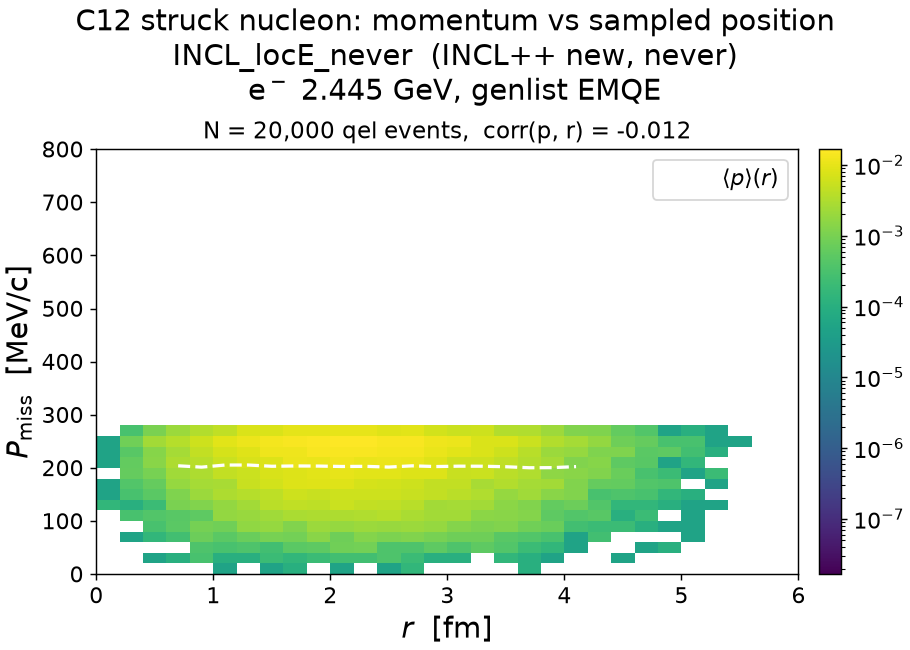
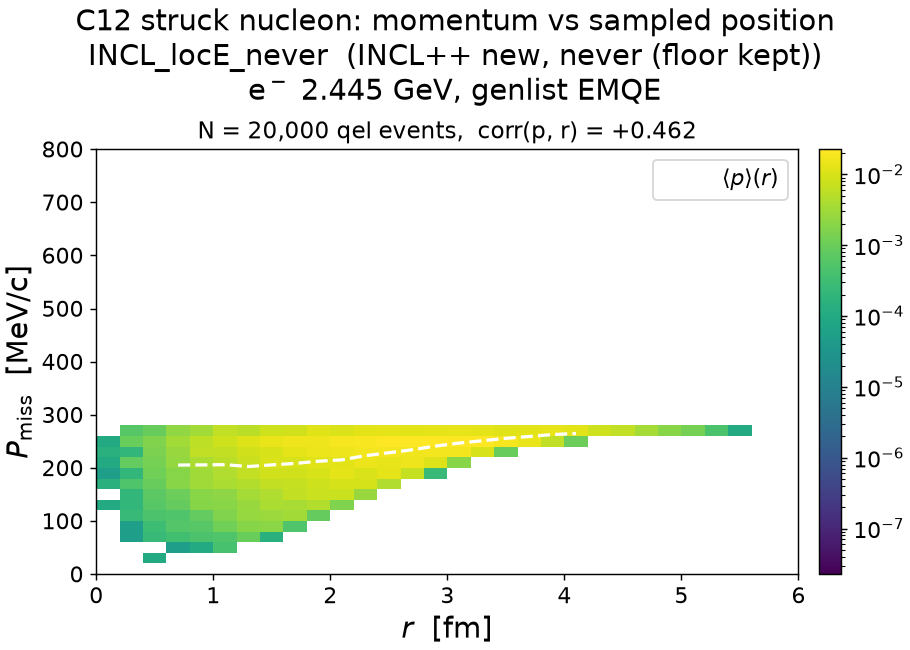
docs+results: never keeps the resampling floor -- plan semantics and (r, p) figure updated
Fork commit cbffacc10 (feature/incl-vertex-local-energy): the p_min(r)
acceptance in ResamplingHitNucleon applies in every local-energy mode; with
"never" only the local-energy transform is off. Plan table/expected numbers
updated (never: ball with floor, <p> 226, corr +0.45, E_m mean 17.4); the
struck_pr_c12_all_t05_locE figure's never panel regenerated from a 20k run
under the new code.

diff --git a/docs/incl-vertex-local-energy-option-plan.md b/docs/incl-vertex-local-energy-option-plan.md
@@ -9,9 +9,10 @@ collision). Validation (20k e⁻ C12 EMQE events per setting, existing spline):
 record nucleon = interaction nucleon (invariant mass 892.6 MeV), stage-2 and
 stage-3 E_m identical, `|p_p′ − q| = p_rec` to 0.004 MeV/c, record `Q2 == Q2s`,
 `E_m = V₀ − T` to 0.01 MeV; corr(p, r) = −0.67 (on, ⟨p⟩ 147 MeV/c, E_m mean
-31.5) / 0.00 (`never`, ⟨p⟩ 203, E_m mean 21.9). Not done: new splines (E7) and
-the tune overlay (E8) — the `never` runs used a scratch `GXMLPATH` override of
-`NucleusGenINCL.xml`.
+31.5) / +0.45 (`never`, floor kept, ⟨p⟩ 226, E_m mean 17.4; fork commit of
+2026-09-04 — the first version had dropped the floor for `never`: ⟨p⟩ 203,
+corr 0.00). Not done: new splines (E7) and the tune overlay (E8) — the `never`
+runs used a scratch `GXMLPATH` override of `NucleusGenINCL.xml`.
 Companion to [`incl-local-frame-binding-plan.md`](incl-local-frame-binding-plan.md)
 (the E = E_red − V₀ convention) and grounded in
 [`incl-ground-state-review.md`](incl-ground-state-review.md).
@@ -48,12 +49,13 @@ generated and compared without code edits.
 |---|---|---|
 | `always` | on | every NN collision |
 | `first-collision` (default) | on — the vertex *is* the first collision | none (the QE avatar consumed the flag; kept as today) |
-| `never` | off: struck nucleon = INCL's own `(p_ball, E_ball − V₀)`, resampling accepts any ball momentum (no `T > T_loc(r)` floor) | none |
+| `never` | off: struck nucleon = INCL's own `(p_ball, E_ball − V₀)`; the resampling still applies the ground-state floor `T > T_loc(r)` (changed 2026-09-04: the floor is a ground-state constraint, not the energy correction) | none |
 
 `local-energy-pi` keeps its INCL meaning (πN collisions, Δ decays) and is not
-consulted by the vertex. The resampling floor is deliberately tied to the same
-switch: `never` removes INCL's r–p constraint from the record as well (pure p_F
-ball at every radius). With the binding plan in place, the vertex nucleon is
+consulted by the vertex. The resampling floor `T > T_loc(r)` (INCL's r–p
+constraint: a nucleon at radius r needs the momentum whose reflection radius
+reaches r) is applied in every mode; `never` only switches off the local-energy
+transform of the accepted momentum (`vertexLocE() = 0`). With the binding plan in place, the vertex nucleon is
 `(p_i, E_i)` with `E_loc = E_ball − vertexLocE`, `p_i = √(E_loc² − m²) p̂`,
 `E_i = E_loc − V₀`, where `vertexLocE` is `T_loc(r)` (on) or 0 (off).
 
@@ -78,9 +80,9 @@ used by:
 - the getters (`:315-336`), rewritten per the binding plan as one const
   computation of `(p_i, E_i)`;
 - `isRPValid` (`:476-487`): `MaxMomAtR = √((E_F − vertexLocE())² − m²)` → p_F when off;
-- `ResamplingHitNucleon` (`:514-536`): threshold `= useVertexLocE_ ? getLocalEnergy(resampled state) : 0`
-  (evaluated inside the loop on the resampled state, which also removes the NaN
-  side effect described in the review).
+- `ResamplingHitNucleon` (`:514-536`): threshold `getLocalEnergy(resampled state)`
+  in every mode (evaluated inside the loop on the resampled state, which also
+  removes the NaN side effect described in the review).
 Delete the commented `setLocalEnergy*Type(NeverLocalEnergy)` lines (`:182-183`).
 
 **E4 `src/Physics/HadronTransport/G4INCLGENIEAvatar.{h,cxx}`** — read
@@ -121,8 +123,9 @@ nucleus per throw vs `fixRadius` ball) is untouched by this plan.
 Figure: [`results/prd-analyzer-v1.0/struck_pr_c12_all_t05_locE.png`](../results/prd-analyzer-v1.0/struck_pr_c12_all_t05_locE.png)
 — struck-nucleon (r, |p|) for LFG (`GEM26_11a`, campaign), the old INCL record
 (`GEM26_44b` 500k, ball with the rising floor), and the new branch's record with
-local energy on (LFG-like, corr −0.67) and `never` (pure ball, corr −0.01); 20k
-events each for the new runs (`make_struck_pr.py --csv …`).
+local energy on (LFG-like, corr −0.67) and `never` (floor kept: the same
+truncated ball as the old record, corr +0.45, but now the nucleon the kinematics
+used); 20k events each for the new runs (`make_struck_pr.py --csv …`).
 
 - **V1 probe** (`results/template/probe_incl_hitnuc.cxx`, both settings):
   `never` → `p_i = p_ball` exactly, `E_i = E_ball − 45.00`, `isRPValid` bound = p_F,
@@ -139,15 +142,15 @@ events each for the new runs (`make_struck_pr.py --csv …`).
 
 | quantity | default (`first-collision`/`always`) | `never` |
 |---|---|---|
-| momentum used everywhere | p_red: ⟨p⟩ 150 MeV/c, p < 100: 24 % | pure ball: ⟨p⟩ 203, p < 100: 5 %, cut 270 |
-| corr(p, r) | −0.65 (LFG-like) | 0 (factorized) |
-| E − m used by the lepton kinematics | −31 MeV | ≈ −22 MeV |
-| E_m (pre-FSI) | V₀ − T_red: mean 31.0 | V₀ − T: mean ≈ 22 |
-| Dutta windows [10,25) / [30,50) | 27 % / 58 % | ≈ 50 % / 24 % |
+| momentum used everywhere | p_red: ⟨p⟩ 150 MeV/c, p < 100: 24 % | ball with floor: ⟨p⟩ 225, p < 100: 1 %, cut 270 |
+| corr(p, r) | −0.65 (LFG-like) | +0.46 (INCL-like) |
+| E − m used by the lepton kinematics | −31 MeV | −17.5 MeV |
+| E_m (pre-FSI) | V₀ − T_red: mean 31.0 | V₀ − T_ball: mean 17.5 |
+| Dutta windows [10,25) / [30,50) | 27 % / 58 % | 58 % / 10 % |
 | Moniz C12 Fermi-gas reference | ⟨p⟩ 166 (k_F 221) | |
 
-(For reference, "no local energy but keep INCL's floor" — not selectable in this
-design — would give ⟨p⟩ 225, corr +0.46, E_m mean 17.5, windows 58 % / 10 %.)
+(A pure p_F ball without the floor — the 2026-09-03 first version of `never`,
+replaced on 2026-09-04 — gave ⟨p⟩ 203, corr 0, E_m mean 22, windows ≈ 50 % / 24 %.)
 
 ## Notes
 - The option is read once per job from the `NucleusGenINCL` param_set the tune
